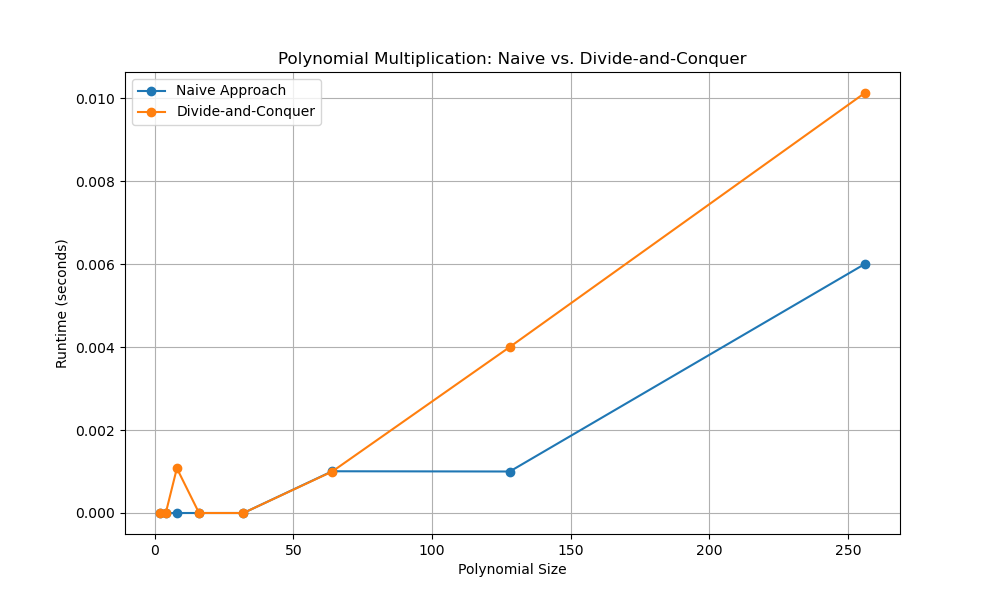
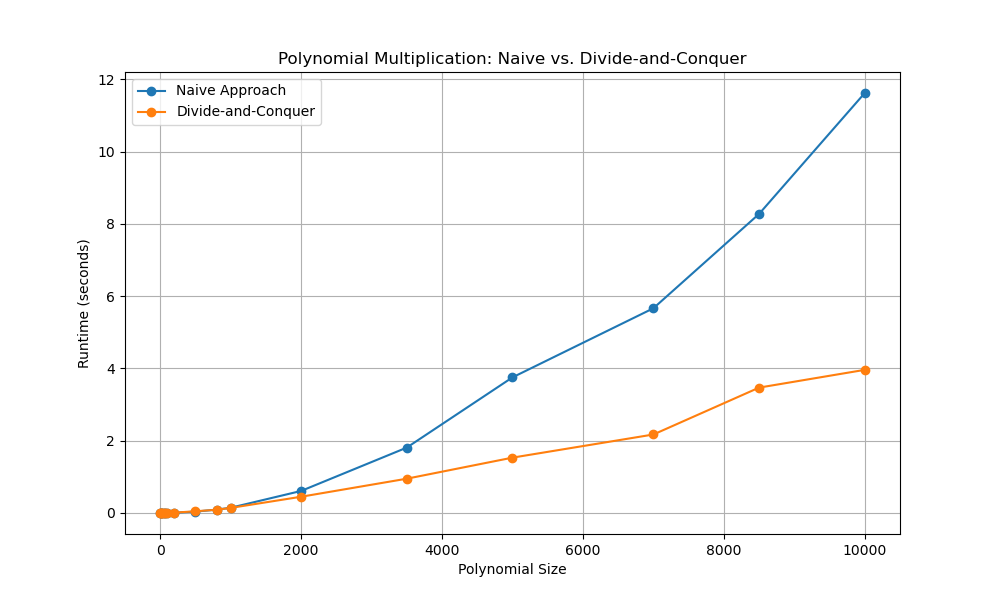
fixed runtime plot

diff --git a/HW1/HW_1_Munro.py b/HW1/HW_1_Munro.py
@@ -82,7 +82,7 @@ def poly_str_print(P):
 #print out runtimes for the two algorithm approaches
 def print_alg_times():
 
-    sizes = [2, 4, 8, 16, 32, 64, 128, 256]  #different polynomial sizes
+    sizes = [1, 5, 10, 25, 50, 75, 100, 200, 500, 800, 1000, 2000, 3500, 5000, 7000, 8500, 10000]  #different polynomial sizes
     naive_times = [] #store times for naive approach here
     dac_times = [] #store time for DaC approach here
 
